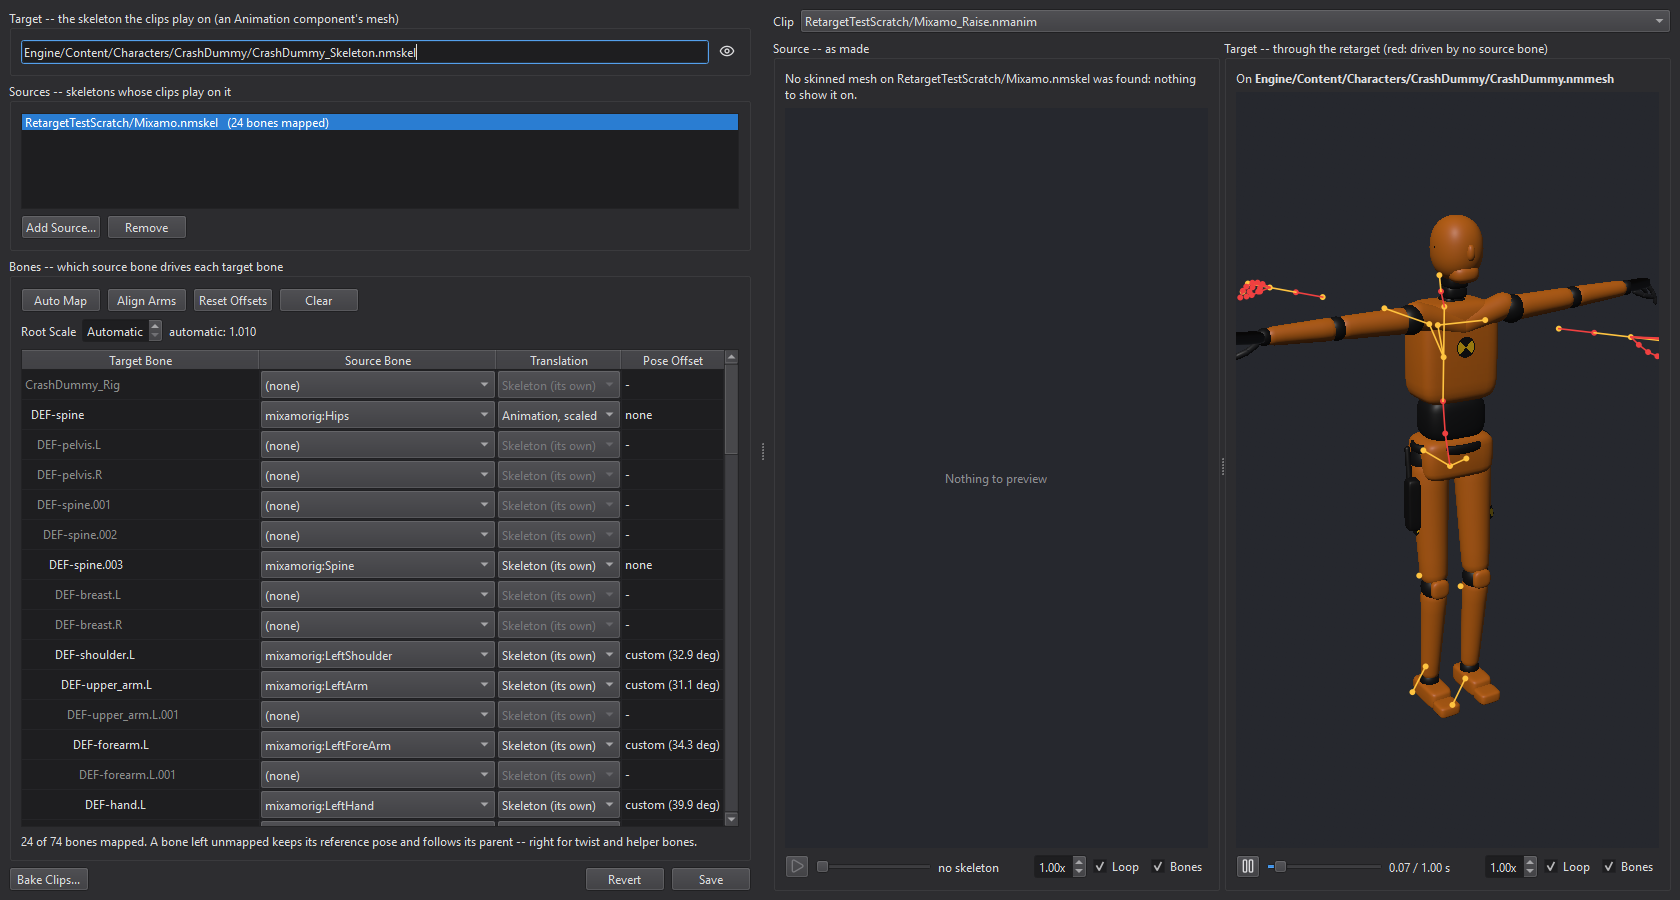
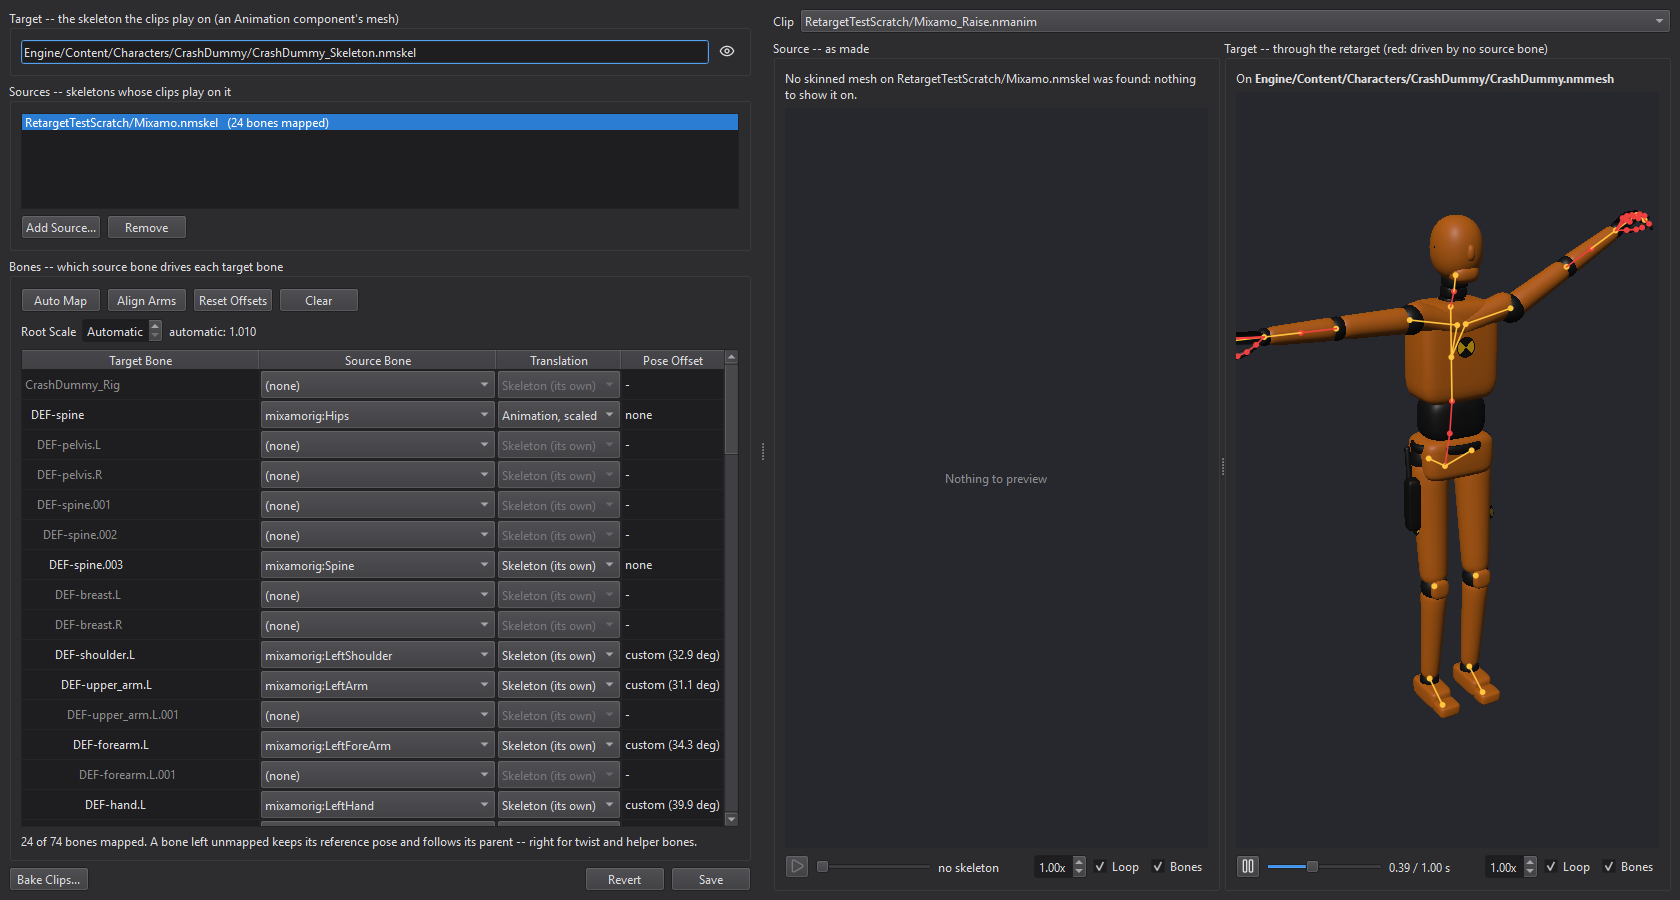
Docs: the retarget guide's arm offsets as Align Arms sets them
The guide said the arms are 40-odd degrees low; on the CrashDummy Align
Arms sets about 31-34 degrees on the arm (33 clavicle, 40 hand). The
screenshot is retaken with the overlay no longer mirrored.

diff --git a/Engine/Docs/Guides/RetargetGuide.md b/Engine/Docs/Guides/RetargetGuide.md
@@ -62,8 +62,10 @@ bones (`DEF-upper_arm.L.001`, `DEF-breast.L`) stay unmapped and grey: they
 keep their reference pose under their parent, which is what they should do.
 
 **Align Arms** fixes the reference poses: Mixamo's arms are out level, the
-CrashDummy's hang in an A. Without it every arm pose is 40-odd degrees too
-low. The Pose Offset column shows what it set.
+CrashDummy's hang in an A. Without it every arm pose is about 30 degrees too
+low. The Pose Offset column shows what it set: on the CrashDummy about 33
+degrees on the clavicle, 31 on the upper arm, 34 on the forearm and 40 on
+the hand (each bone is aligned along its own direction, so they differ).
 
 Change anything by hand: a row's Source Bone and Translation combos. A red
 row names a source bone the source skeleton lacks, or one that drives two
